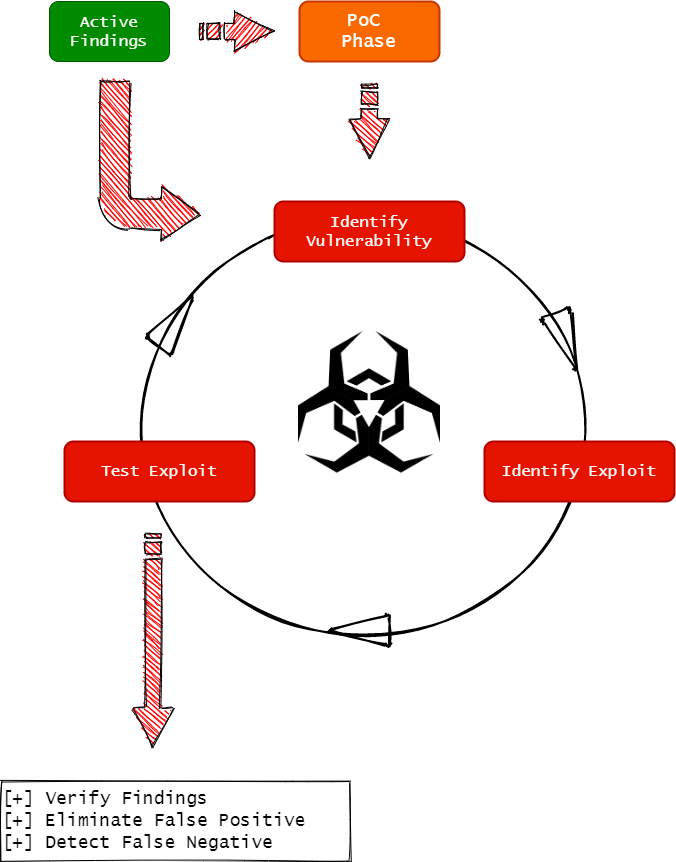
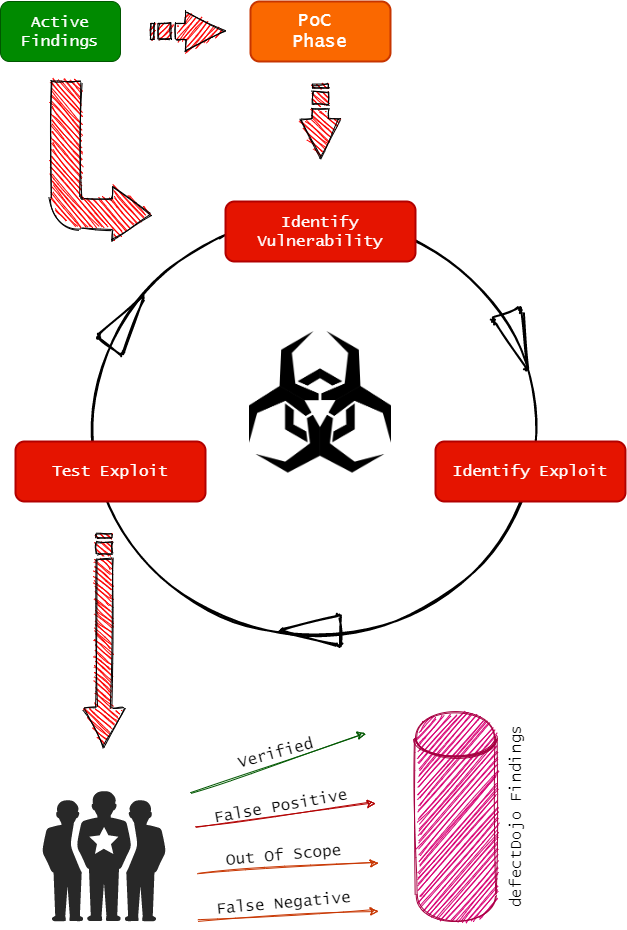
add image

diff --git a/VAPT methodology.md b/VAPT methodology.md
@@ -10,7 +10,9 @@
 
 5. [Massaging Phase (BlackBox Findings)](https://github.com/gh1mau/vapt/blob/main/VAPT%20methodology.md#massaging-phase-blackbox-findings)
 
-6. WhiteBox Scanning Phase
+6. PoC Phase 1 (BlackBox Findings)
+
+7. 
 
 ---
 
@@ -170,10 +172,10 @@ Next would be Massaging Phase (BlackBox Findings), here we'll start **importing*
 5. [Threat Modeling](https://github.com/gh1mau/vapt/blob/main/VAPT%20methodology.md#threat-modelling)
 
 6. [Verifications Level 2](https://github.com/gh1mau/vapt/blob/main/VAPT%20methodology.md#verifications-level-2)
-
-7.   
-
-     
+   
+   
+   
+        
 
 ![](https://raw.githubusercontent.com/gh1mau/vapt/main/image/Massaging_Phase_Black%20Box.png)
 
@@ -249,7 +251,7 @@ We can look the overview of the particular product.
 
 It is advisable to create a Threat Model based on findings from Verifications Level 1 phase. I'm using OWASP Threat Dragon for this activity.
 
-Create a simple and Generic Web Application Threat Diagram and make sure to auto suggest threats based on element, this will somehow help us creating baseline for conducting attacks in PoC Phase.
+Create a simple and Generic Web Application Threat Diagram and make sure to auto suggest threats based on element, this will somehow help us creating baseline for conducting attacks during PoC Phase.
 
 ![](https://raw.githubusercontent.com/gh1mau/vapt/main/image/massaging_blackbox/threat_modelling_1.PNG)
 
@@ -261,14 +263,34 @@ Here is a sample of Generic Web Application Threat Diagram that can be imported 
 
 ### Verifications Level 2
 
-In Level 2 Verifications, we need to identify and clarify all the active findings and set the proper status : **Verified**, **False Positive**, **Out Of Scope**. Based on the Threat Modeling Diagram that we have created earier, we will conduct the PoC Phase to verify all the active findings.
+In Verifications Level 2, we need to identify and clarify all the active findings and set the proper status : **Verified**, **False Positive**, **Out Of Scope**. Based on the Threat Modeling Diagram that we have created earier, we will conduct the PoC Phase to verify all the active findings.
 
 
 
-image ??
+![](https://raw.githubusercontent.com/gh1mau/vapt/main/image/massaging_blackbox/verifications_level2.png)
 
 
 
 During this phase we might uncover False Negative findings by using several common fuzzing techniques.
 
-> A false negative is the opposite of a false positive (go figure!). You may run a security scanner like Nessus and for one reason or another it may miss a vulnerability that may in fact exist. Possible reasons for a false negative include a check not yet being written (maybe the vulnerability is to new?), user error (maybe you didn't select the right policy, or maybe your configuration needs tweaking), or some other good explanation.
+> A false negative is the opposite of a false positive (go figure!). You may run a security scanner like Nessus and for one reason or another it may miss a vulnerability that may in fact exist. Possible reasons for a false negative include a check not yet being written (maybe the vulnerability is to new?), user error (maybe you didn't select the right policy, or maybe your configuration needs tweaking), or some other good explanation
+
+
+
+[toc](https://github.com/gh1mau/vapt/blob/main/VAPT%20methodology.md#web-application-vulnerability-assessment-and-penetration-testing-management-methodology-simplified-web-vapt-mms)
+
+---
+
+
+
+### PoC Phase 1 (BlackBox Findings)
+
+This is a list of common vulnerabilites that i found during my Penetration Testing activity, incuding fuzzing techniques, scripting and tools used, exploitation, description and general remediation. 
+
+
+
+| #   | Issue             |
+| --- | ----------------- |
+| 1   | Directory Listing |
+|     |                   |
+|     |                   |
